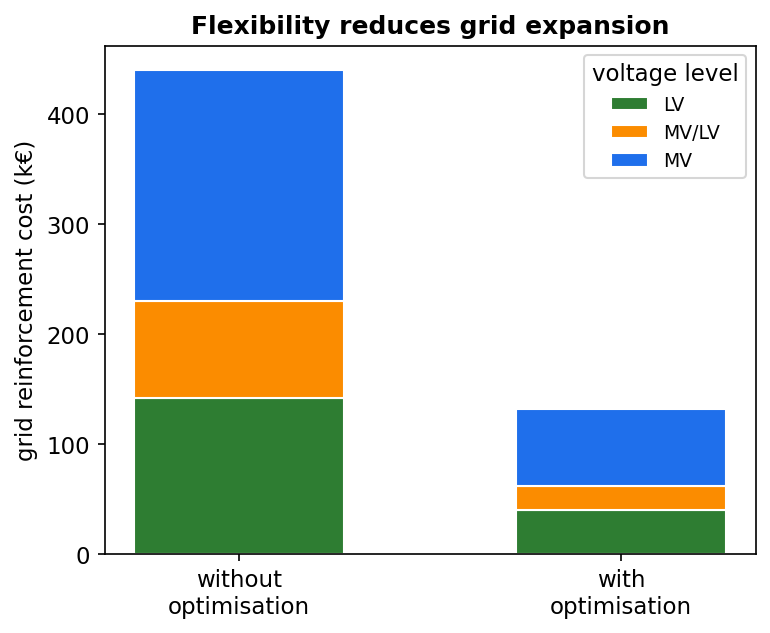
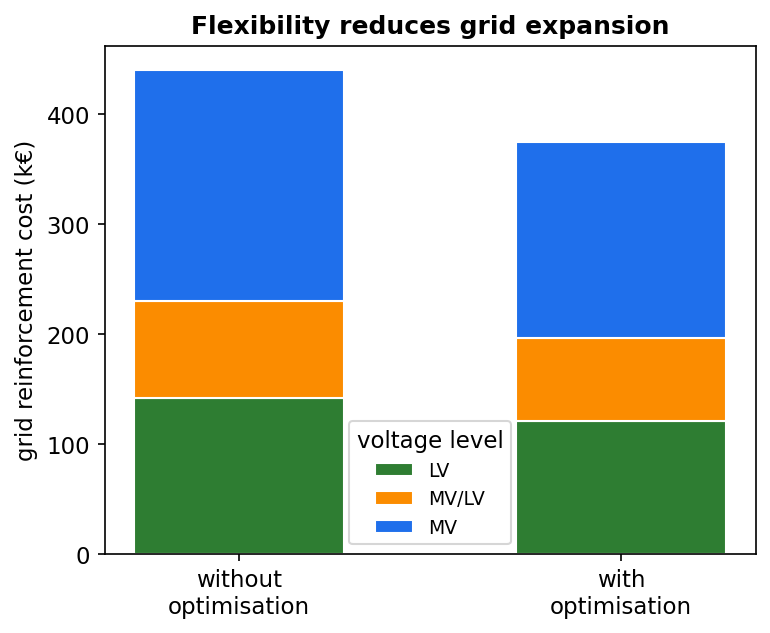
docs: tone down the reinforcement-cost-comparison figure to ~15% savings
The illustrative figure overstated the effect (~70% cost reduction). Adjust the
"with optimisation" values to ~85% of the baseline so each voltage level shows a
more realistic ~15% reduction (LV 142->121, MV/LV 88->75, MV 210->178 k€).

Changed region(s): [[0.4364, 0.06, 0.9662, 0.8705]]

diff --git a/doc/images/methodology_figures.py b/doc/images/methodology_figures.py
@@ -270,7 +270,7 @@ def fig_cost_comparison():
     fig, ax = plt.subplots(figsize=(5.6, 4.4))
     levels = ["LV", "MV/LV", "MV"]
     without = [142, 88, 210]
-    withopt = [40, 22, 70]
+    withopt = [121, 75, 178]
     cols = [GREEN, ORANGE, BLUE]
     for vals, xpos in ((without, 0), (withopt, 1)):
         bottom = 0
